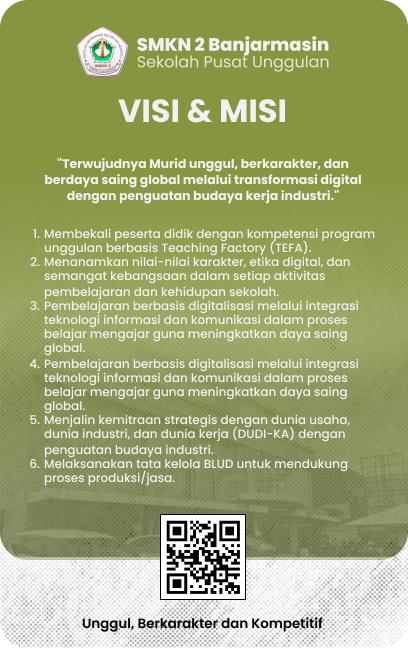
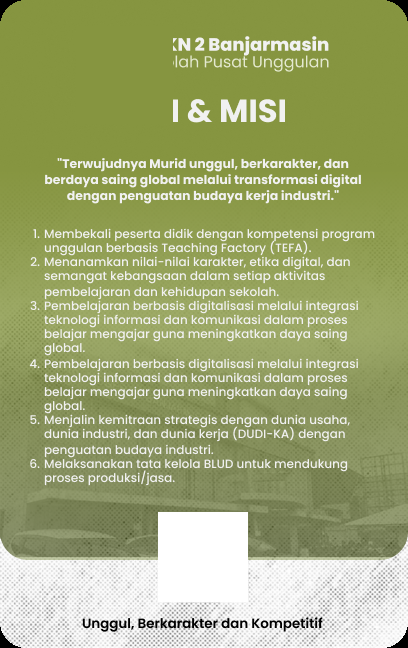
update

diff --git a/storage/app/private/card/kartu-pelajar-classic-belakang-vertical.html b/storage/app/private/card/kartu-pelajar-classic-belakang-vertical.html
@@ -21,9 +21,14 @@
         padding: 24px;
       }
 
-      /* 204 x 324 (SVG acuan Potrait - Front) diskala 3x = 612 x 972 */
+      /* 204 x 324 (SVG acuan Potrait - Front) diskala 3x = 612 x 972.
+         flex:none mengunci ukuran: tanpa ini kartu menyusut di viewport
+         sempit (flex-shrink default) lalu motif ter-letterbox oleh
+         preserveAspectRatio meet, sehingga overlay logo/QR tidak sejajar
+         dengan placeholder bake dan logo tampak ganda. */
       .student-card {
         position: relative;
+        flex: none;
         width: 612px;
         height: 972px;
         overflow: hidden;
@@ -44,15 +49,14 @@
         inset: 0;
         z-index: 2;
       }
-
-      /* Kotak logo diukur dari PNG acuan 408x648: bbox x[77,170] y[27,110]
+      /* Kotak logo diukur dari PNG acuan 408x648: badge x[77,171] y[27,122]
          dikali 1.5 ke ruang 612x972. Menutup logo bake dengan logo hidup. */
       .school-logo {
         position: absolute;
         top: 40px;
         left: 115px;
         width: 142px;
-        height: 124px;
+        height: 144px;
       }
 
       .school-logo img {
